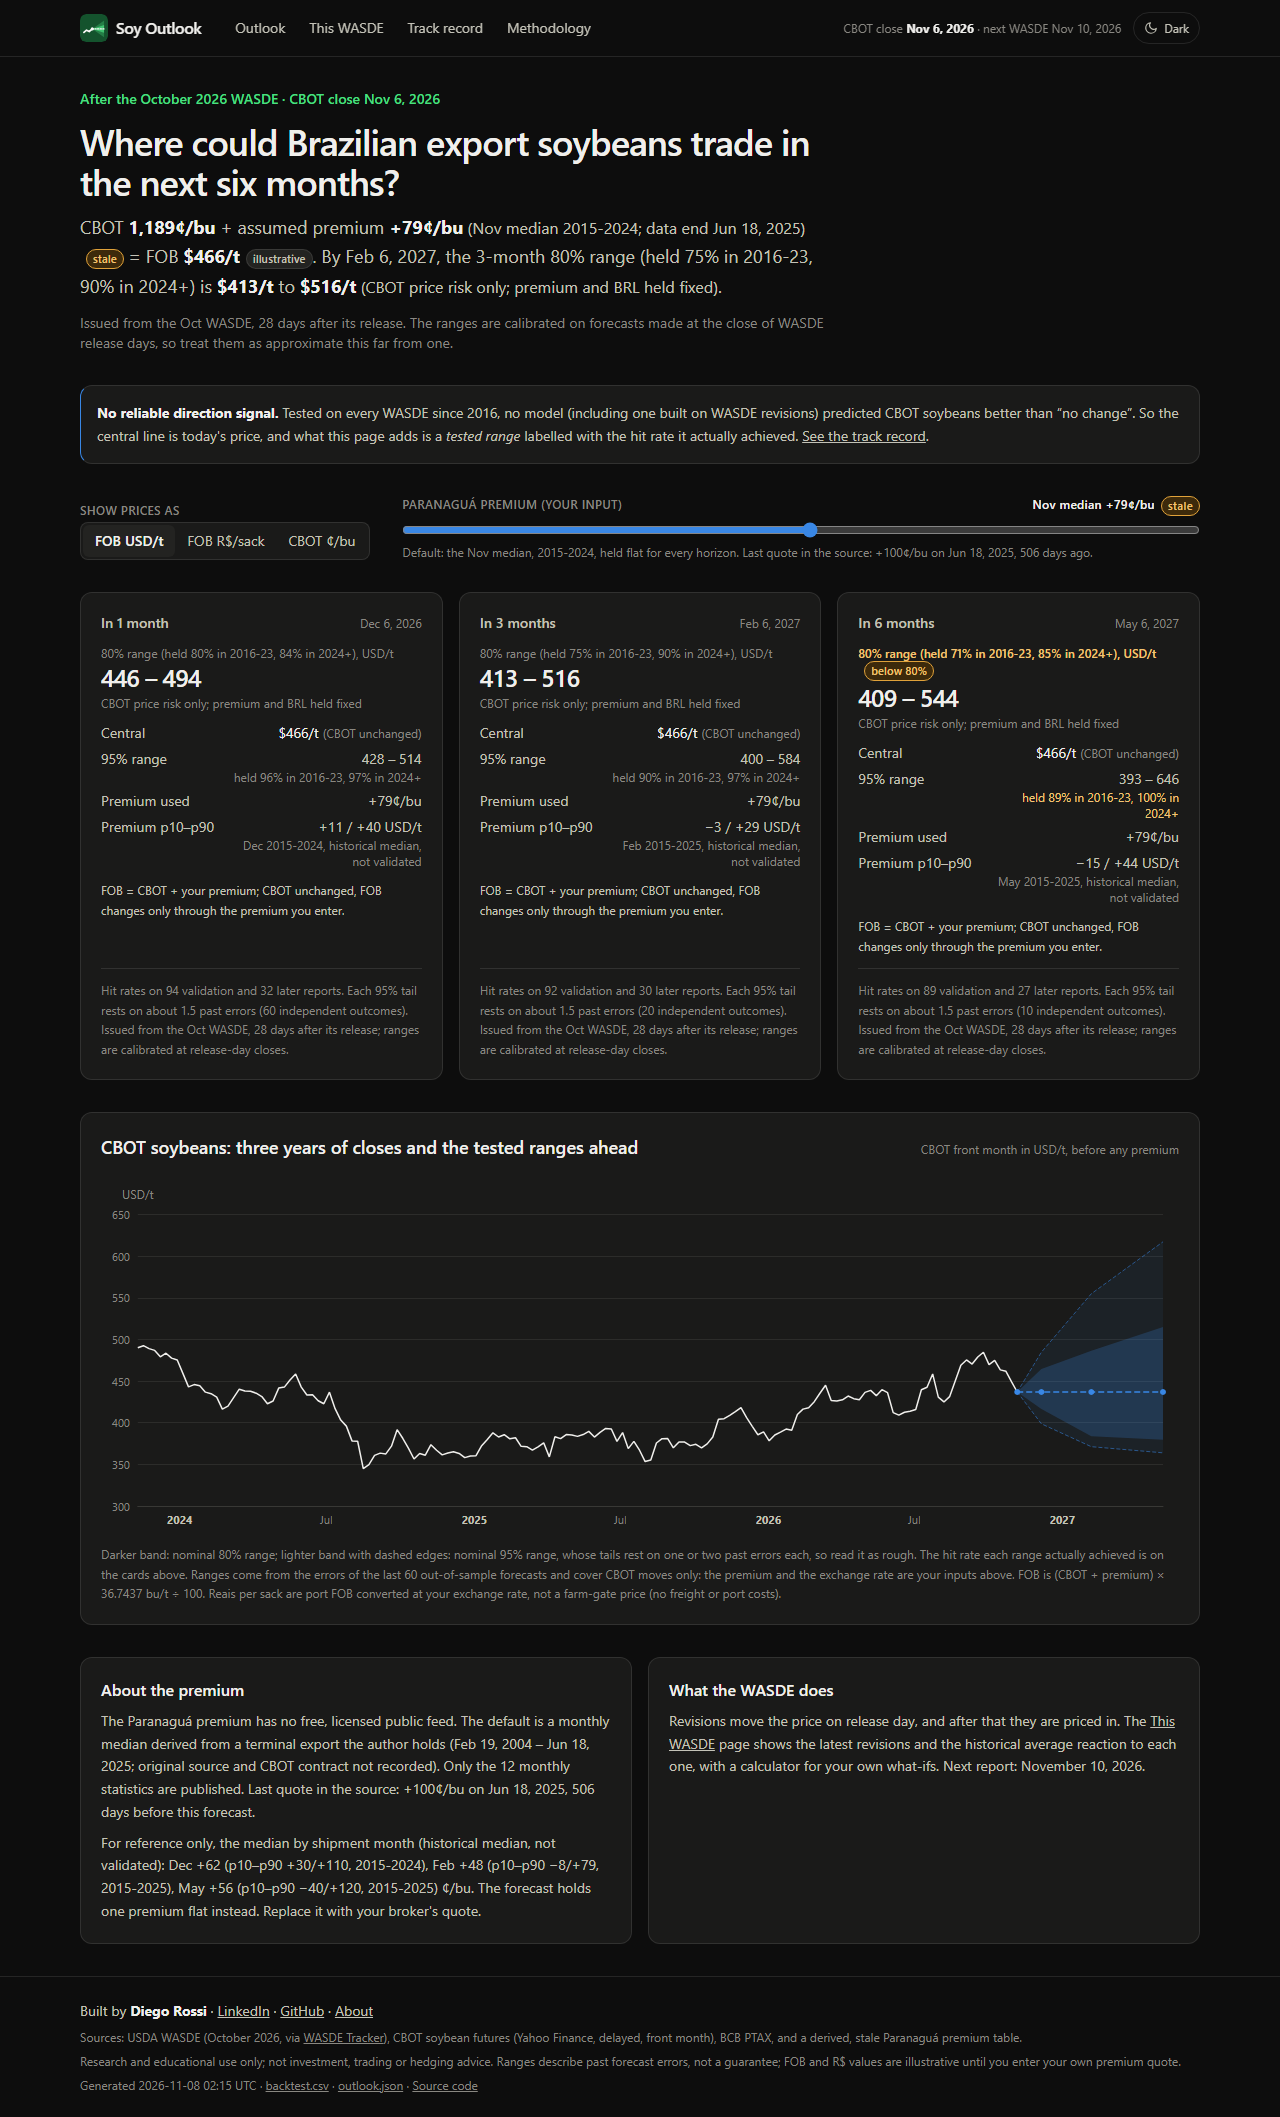
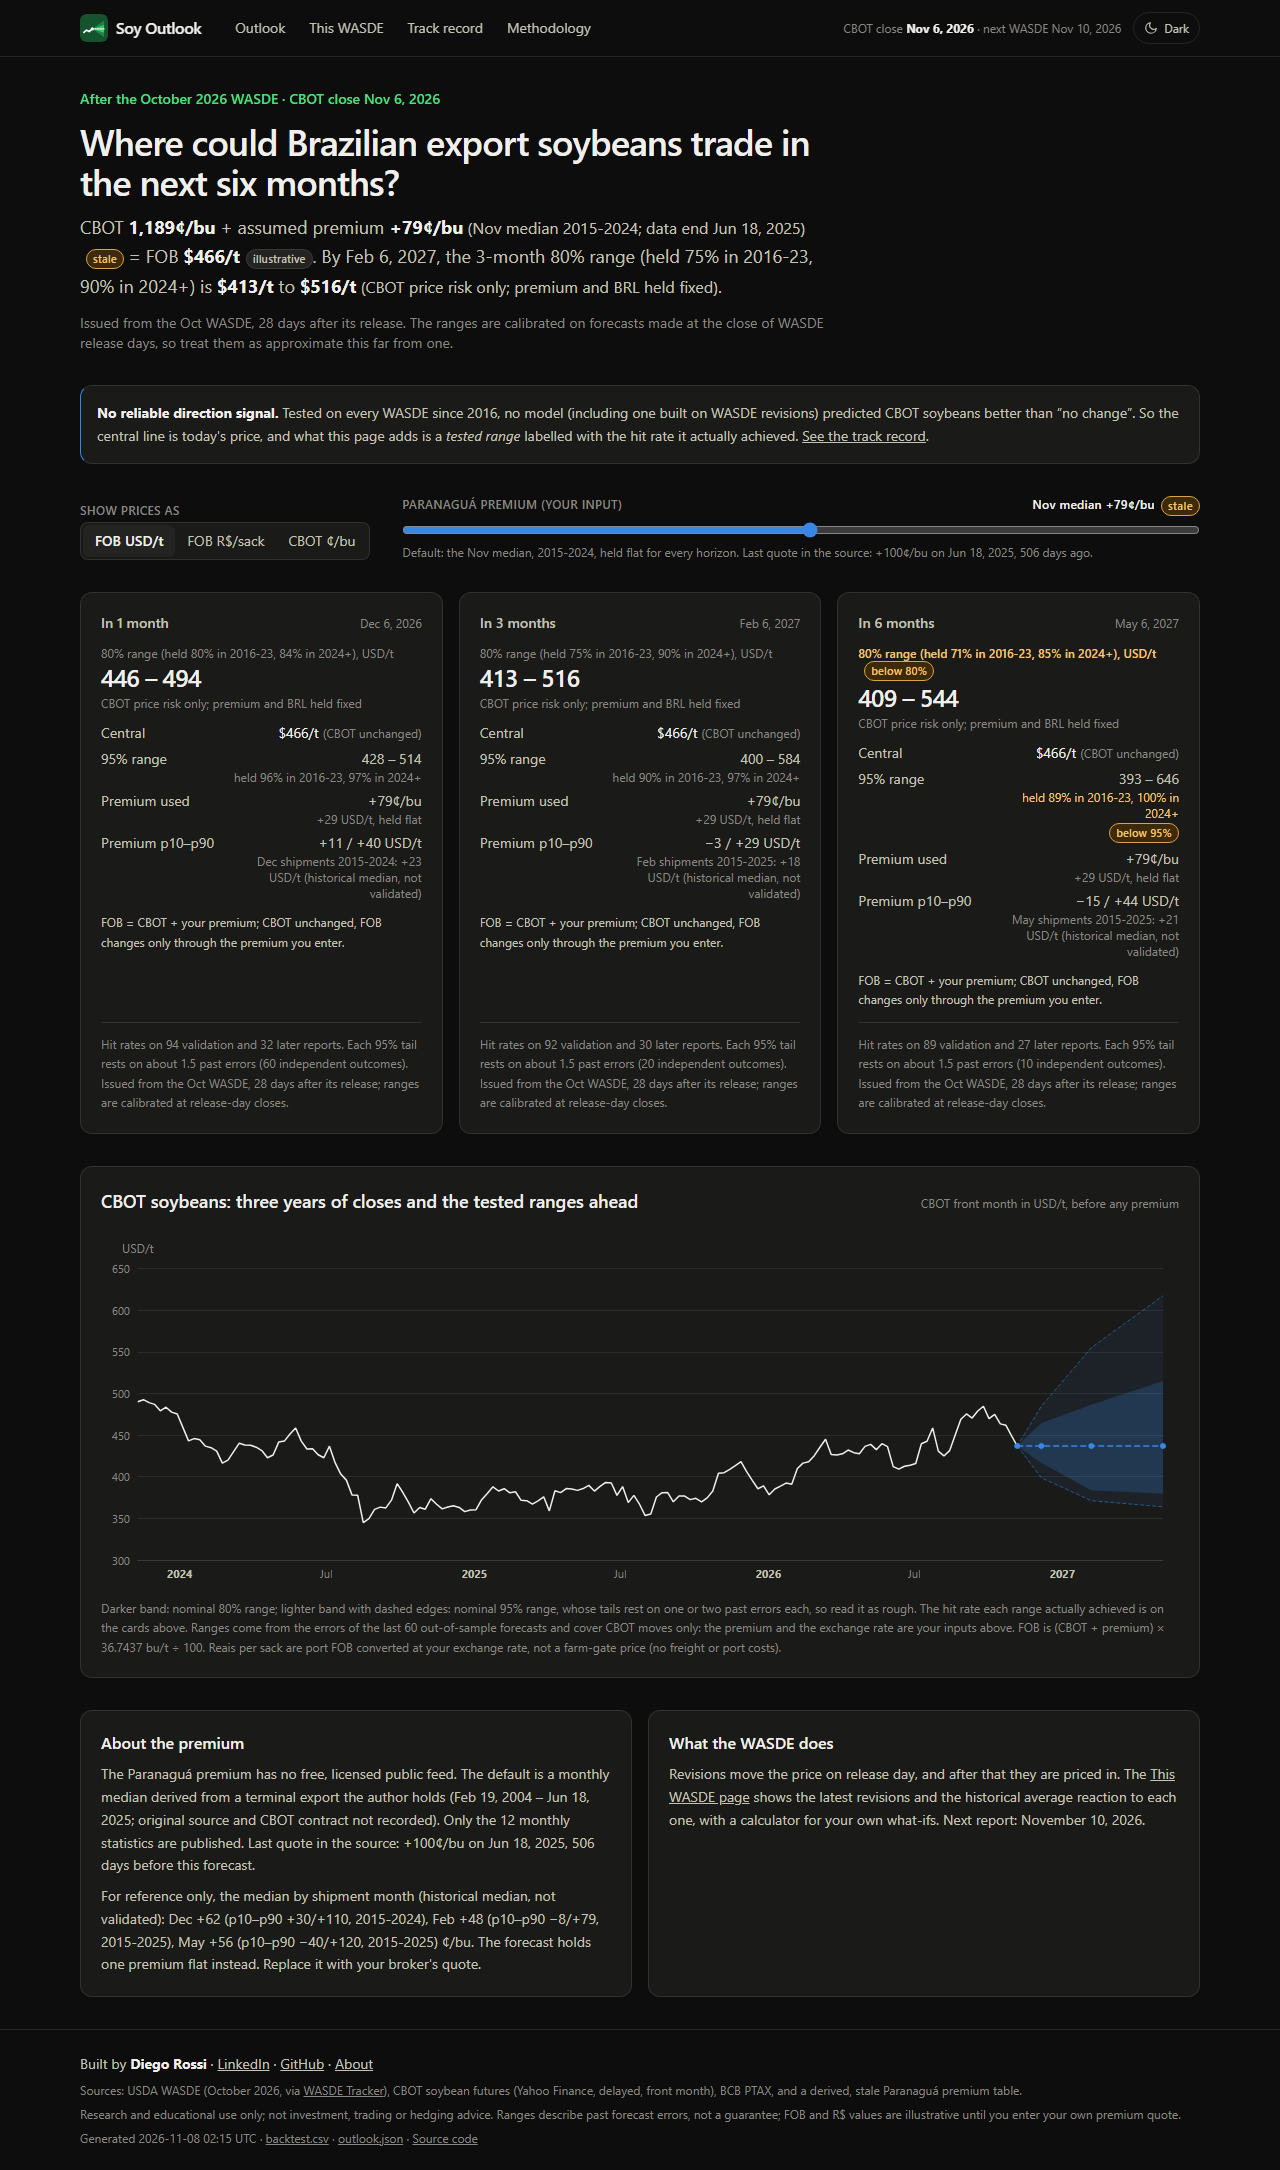
fix(web): U2 review - 95% shortfall badge, premium card units, copy
- 95% ranges more than 5 pp below nominal get a "below 95%" badge, so the
  amber tone is never colour alone (6m today); contract test covers it.
- Premium card: the flat premium is also shown in USD/t ("held flat"), and
  the p10-p90 row now carries the shipment-month median in USD/t next to
  the "historical median, not validated" note (P6 reference text).
- What-if interval prints signed bounds (-8.8 to +8.8 USD/t).
- "The This WASDE page" link copy fixed; robots.txt drops the non-standard
  Host line. README screenshots regenerated.

diff --git a/web/components/OutlookView.tsx b/web/components/OutlookView.tsx
@@ -118,16 +118,24 @@ function HorizonCard({
           <span className={`block text-xs ${cov.warn95 ? "text-warn" : "text-muted"}`} data-testid="held95">
             {heldText(cov, "95")}
           </span>
+          {cov.warn95 && (
+            <Badge warn title="Validation hit rate more than 5 percentage points below the nominal 95%">
+              below 95%
+            </Badge>
+          )}
         </dd>
         {unit !== "c_bu" && (
           <>
             <dt className="text-ink-2">Premium used</dt>
-            <dd className="tabular text-right text-ink-2">{signed0(a.premium)}¢/bu</dd>
+            <dd className="tabular text-right text-ink-2">
+              {signed0(a.premium)}¢/bu
+              <span className="block text-xs text-muted">{signedUsd(usdT(a.premium))} USD/t, held flat</span>
+            </dd>
             <dt className="text-ink-2">Premium p10–p90</dt>
             <dd className="tabular text-right text-ink-2" data-testid="premium-band">
               {signedUsd(usdT(ref.p10))} / {signedUsd(usdT(ref.p90))} USD/t
               <span className="block text-xs text-muted">
-                {MONTHS[ref.month - 1]} {ref.years}, {ref.note}
+                {MONTHS[ref.month - 1]} shipments {ref.years}: {signedUsd(usdT(ref.median))} USD/t ({ref.note})
               </span>
             </dd>
           </>
@@ -427,9 +435,9 @@ export default function OutlookView({ meta, outlook }: Props) {
           <p>
             Revisions move the price on release day, and after that they are priced in. The{" "}
             <Link className="underline hover:text-ink" href="/wasde/">
-              This WASDE
+              This WASDE page
             </Link>{" "}
-            page shows the latest revisions and the historical average reaction to each one, with a calculator for your
+            shows the latest revisions and the historical average reaction to each one, with a calculator for your
             own what-ifs. Next report: {meta.next_wasde ? dateLabel(meta.next_wasde, "long") : "see USDA calendar"}.
           </p>
         </div>

diff --git a/web/e2e/contract.spec.ts b/web/e2e/contract.spec.ts
@@ -29,6 +29,7 @@ test("range labels carry the published hit rates, never a fixed '8 in 10'", asyn
     await expect(card.getByTestId("label80")).toContainText(label80);
     await expect(card.getByTestId("held95")).toHaveText(held(h.coverage, "cover95"));
     await expect(card.getByText("below 80%")).toHaveCount(h.coverage.warn80 ? 1 : 0);
+    await expect(card.getByText("below 95%")).toHaveCount(h.coverage.warn95 ? 1 : 0);
   }
   const h3 = (outlook.horizons as { h: number; coverage: Cov }[]).find((h) => h.h === 3)!;
   await expect(page.getByTestId("hero-range-label")).toHaveText(
@@ -57,6 +58,9 @@ test("FOB headline is an explicit sum with the stale, illustrative default premi
     await expect(page.getByTestId(`horizon-${h.h}`).getByTestId("premium-band")).toContainText(
       `${signed0(toUsdT(h.premium_reference.p10))} / ${signed0(toUsdT(h.premium_reference.p90))} USD/t`,
     );
+    await expect(page.getByTestId(`horizon-${h.h}`).getByTestId("premium-band")).toContainText(
+      `${signed0(toUsdT(h.premium_reference.median))} USD/t (${h.premium_reference.note})`,
+    );
   }
   // Entering a quote replaces "assumed" and drops the stale and illustrative badges; CBOT units drop the FOB rows.
   await page.getByLabel(/Paranaguá premium/).fill("120");
@@ -73,7 +77,7 @@ test("what-if shows an 80% prediction interval from the published covariance", a
   // With no surprise entered, the interval is the residual noise alone: ±1.2816 × resid sd.
   const half = (1.2815515655446004 * r.resid_sd_usd_t).toFixed(1);
   const pi = page.getByTestId("pi80");
-  await expect(pi).toContainText(`−${half} to ${half} USD/t`);
+  await expect(pi).toContainText(`−${half} to +${half} USD/t`);
   await expect(pi).toContainText("direction unclear");
   const flagged = r.items.filter((it: { weak: boolean; wrong_sign: boolean }) => it.weak || it.wrong_sign).length;
   await expect(page.locator('[data-flagged="true"]')).toHaveCount(flagged);

diff --git a/web/components/WasdeWhatIf.tsx b/web/components/WasdeWhatIf.tsx
@@ -13,7 +13,7 @@ const RANGE: Record<string, number> = { pp: 3, Mt: 10 };
 /** Two-sided 80% normal quantile. */
 const Z80 = 1.2815515655446004;
 /** One decimal with a true minus sign. */
-const fmt1 = (v: number) => (v < 0 ? `−${num(-v, 1)}` : num(v, 1));
+const fmt1 = (v: number) => (v < 0 ? `−${num(-v, 1)}` : v > 0 ? `+${num(v, 1)}` : num(v, 1));
 
 /**
  * 80% prediction interval of the release-day move for a vector of surprises m:

diff --git a/web/app/robots.ts b/web/app/robots.ts
@@ -5,5 +5,5 @@ import { SITE_URL } from "@/lib/site";
 export const dynamic = "force-static";
 
 export default function robots(): MetadataRoute.Robots {
-  return { rules: [{ userAgent: "*", allow: "/" }], sitemap: `${SITE_URL}/sitemap.xml`, host: SITE_URL };
+  return { rules: [{ userAgent: "*", allow: "/" }], sitemap: `${SITE_URL}/sitemap.xml` };
 }
